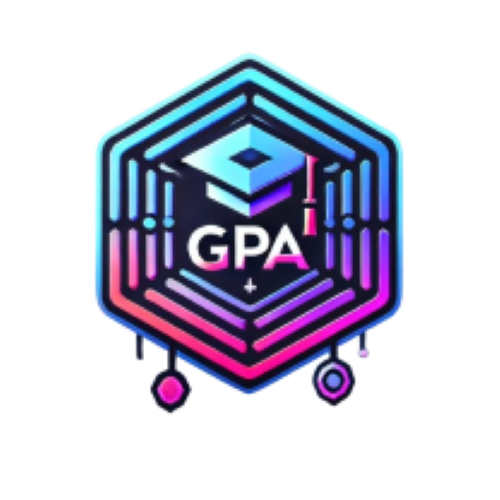
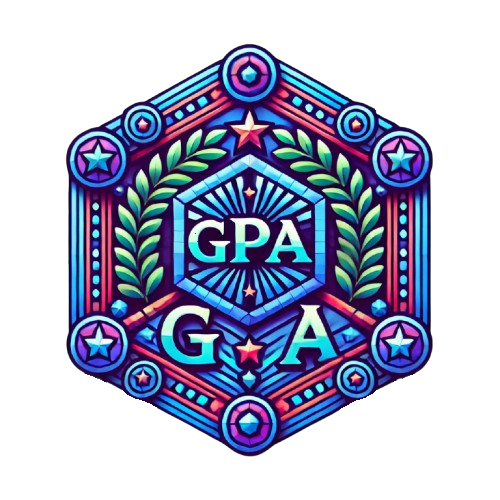
Modified images in Overview

diff --git a/src/components/Hero.jsx b/src/components/Hero.jsx
@@ -17,7 +17,7 @@ const Hero = () => {
         {/*Title and subtext with a predefined style in styles.js*/}
         <div>
           <h1 className={`${styles.heroHeadText}`}>Hello, I am <span className="text-[#915eff]"> Miguel </span></h1>
-          <p className={`${styles.heroSubText} mt-2 text-white-100`}> A third year Software Engineer Student 
+          <p className={`${styles.heroSubText} mt-2 text-white-100`}> A 4th year Software Engineer Student 
             <br className="sm:block hidden"/> currently on a Software Analyst Internship 
           </p>
         </div>

diff --git a/src/assets/index.js b/src/assets/index.js
@@ -3,6 +3,7 @@ import backend from "./backend.png";
 import gpa from "./gpa.png";
 import creator from "./creator.png";
 import mobile from "./mobile.png";
+import graduation from "./graduation.png"
 import web from "./web.png";
 import github from "./github.png";
 import menu from "./menu.svg";
@@ -47,6 +48,7 @@ export {
   gpa,
   creator,
   mobile,
+  graduation,
   web,
   github,
   github_dark,

diff --git a/src/constants/index.js b/src/constants/index.js
@@ -1,5 +1,6 @@
 import {
     mobile,
+    graduation,
     backend,
     gpa,
     creator,
@@ -59,8 +60,8 @@ import {
       icon: web,
     },
     {
-      title: "",
-      icon: mobile,
+      title: "Graduation: May 2026",
+      icon: graduation,
     },
     {
       title: "",

diff --git a/tailwind.config.js b/tailwind.config.js
@@ -5,7 +5,7 @@ module.exports = {
   theme: {
     extend: {
       colors: {
-        primary: "#050816",
+        primary: "#120523",  //#050816
         secondary: "#aaa6c3",
         tertiary: "#151030",
         "black-100": "#100d25",
